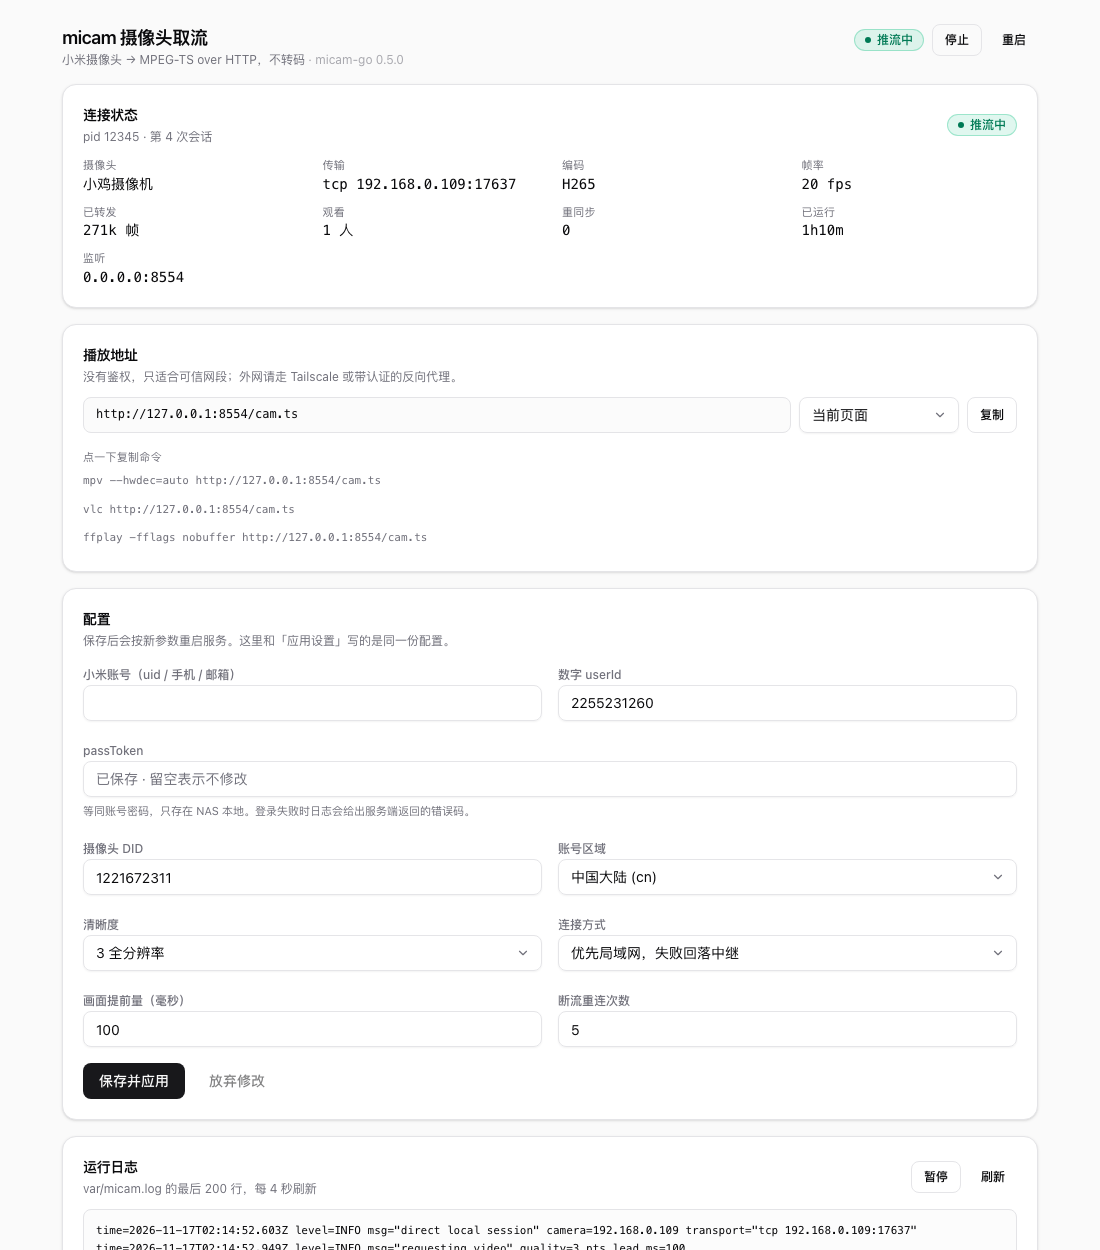
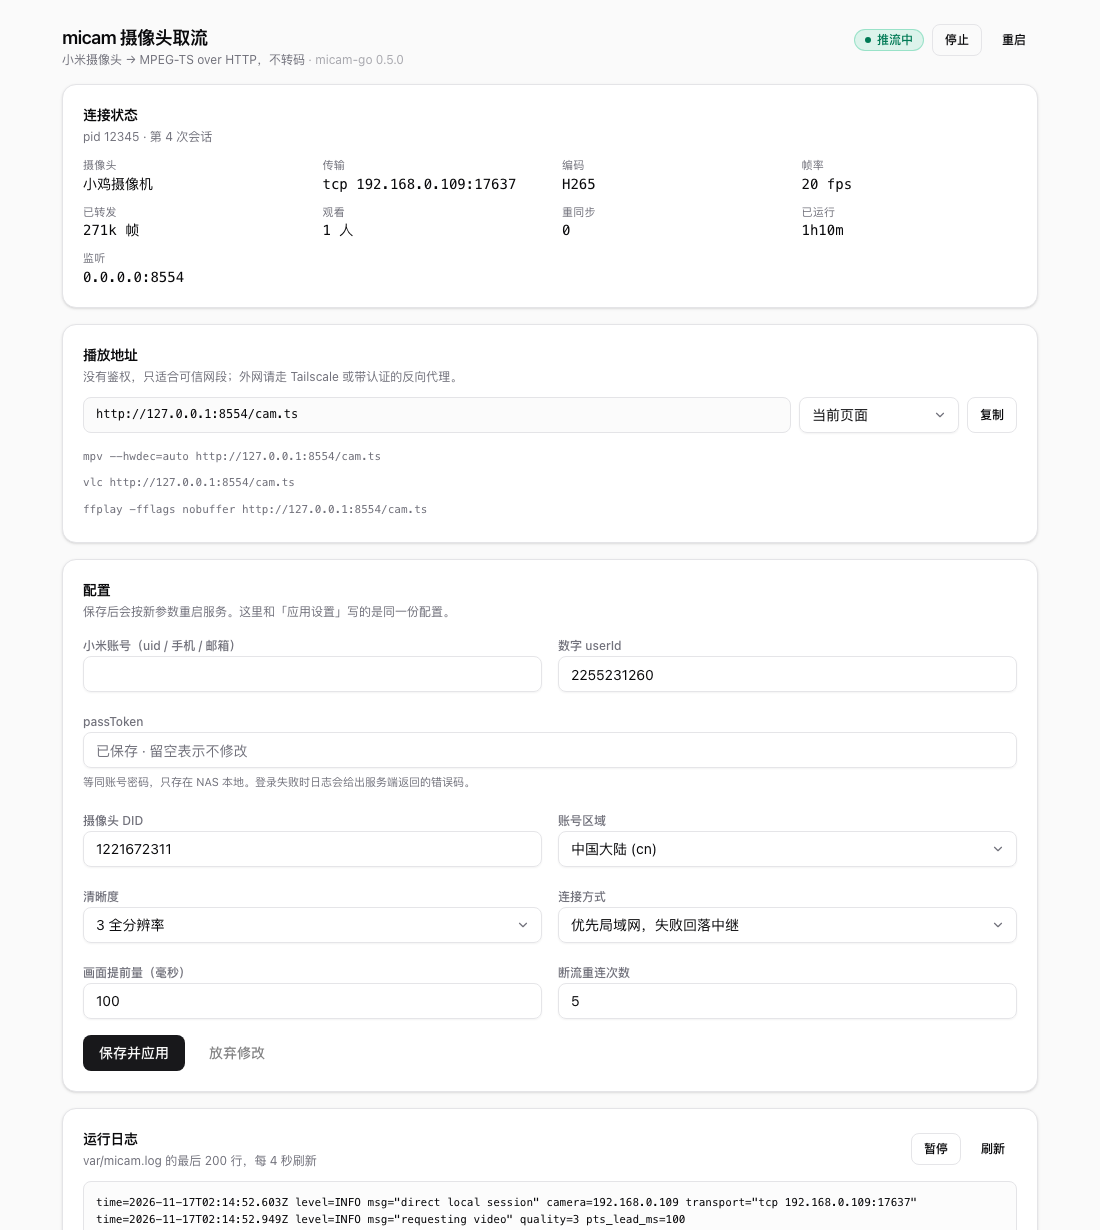
feat: say what "connecting" is doing, and stop it hanging silently
A session that had been connecting for minutes looked exactly like one that had
just started: the state was set once, and neither the card nor the badge said
anything else. It also had a hole. The media watchdog only arms after the first
frame, precisely so the silent authentication phase is not killed - but that
exemption never expired, so a camera that accepted "start video" and then sent
nothing left the session waiting forever: no failure, no retry, "connecting"
until the heat death of the NAS.

The connecting state now carries a stage - provisioning, dialing, authenticating,
starting-video - and the attempt's start time, so the card reads
"连接摄像头 · 15s" and turns amber past twenty seconds with a hint about the camera
being offline. The watchdog is armed explicitly once video is requested, which
turns that silent camera into an ordinary failed attempt.

Also drops the duplicate state badge (the header keeps it; the card now explains
the state instead of repeating it) and the "点一下复制命令" hint above the player
commands.

diff --git a/web/src/lib/components/status-card.svelte b/web/src/lib/components/status-card.svelte
@@ -1,16 +1,40 @@
 <script lang="ts">
   import type { AppStatus } from "$lib/api";
-  import { formatCount, formatDuration, formatFPS, stateLabel, stateTone } from "$lib/format";
-  import { Badge, Card, CardContent, CardHeader, CardTitle } from "./ui";
+  import { formatCount, formatDuration, formatFPS } from "$lib/format";
+  import { Card, CardContent, CardHeader, CardTitle } from "./ui";
 
   let { app }: { app: AppStatus } = $props();
 
-  // A one-second tick keeps the uptime moving without re-fetching anything.
+  // A one-second tick keeps the elapsed time moving without re-fetching anything.
   let now = $state(Date.now());
   $effect(() => {
     const timer = setInterval(() => (now = Date.now()), 1000);
     return () => clearInterval(timer);
   });
+
+  let since = $derived(app.since ? new Date(app.since).getTime() : 0);
+  let elapsed = $derived(since ? Math.max(0, (now - since) / 1000) : 0);
+
+  // "连接中" covers five different waits; say which one and for how long, otherwise
+  // a wedged session looks exactly like a fast one.
+  const stageLabel: Record<string, string> = {
+    provisioning: "向米家云申请参数",
+    dialing: "连接摄像头",
+    authenticating: "认证",
+    "starting-video": "请求视频",
+  };
+
+  let detail = $derived.by(() => {
+    if (!app.running) return "";
+    if (app.state === "connecting") {
+      const stage = app.stage ? (stageLabel[app.stage] ?? app.stage) : "准备中";
+      return `${stage} · ${formatDuration(elapsed)}`;
+    }
+    if (app.state === "retrying") return "等待重连";
+    return "";
+  });
+
+  let slow = $derived(app.state === "connecting" && elapsed > 20);
 
   // A loopback bind looks healthy from the NAS and is unreachable from anywhere
   // else: worth saying out loud.
@@ -19,7 +43,7 @@
   );
 
   let uptime = $derived(
-    app.since ? Math.max(0, (now - new Date(app.since).getTime()) / 1000) : 0,
+    app.state === "streaming" && since ? Math.max(0, (now - since) / 1000) : 0,
   );
 
   const rows = $derived([
@@ -30,27 +54,25 @@
     { label: "已转发", value: `${formatCount(app.frames)} 帧` },
     { label: "观看", value: `${app.viewers} 人` },
     { label: "重同步", value: String(app.resyncs) },
-    { label: "已运行", value: app.state === "streaming" ? formatDuration(uptime) : "—" },
+    { label: "已运行", value: uptime > 0 ? formatDuration(uptime) : "—" },
     { label: "监听", value: app.bind || "—" },
   ]);
 </script>
 
 <Card>
-  <CardHeader class="flex-row items-center justify-between gap-3">
-    <div class="flex flex-col gap-1">
-      <CardTitle>连接状态</CardTitle>
-      <p class="text-xs text-muted-foreground">
-        {#if app.running}
-          pid {app.pid} · 第 {app.session || 1} 次会话
-        {:else}
-          服务未运行
+  <CardHeader>
+    <CardTitle>连接状态</CardTitle>
+    <p class="text-xs text-muted-foreground">
+      {#if app.running}
+        pid {app.pid} · 第 {app.session || 1} 次会话
+        {#if detail}
+          ·
+          <span class={slow ? "text-amber-600 dark:text-amber-400" : ""}>{detail}</span>
         {/if}
-      </p>
-    </div>
-    <Badge tone={stateTone[app.state]}>
-      <span class="size-1.5 rounded-full bg-current"></span>
-      {stateLabel[app.state]}
-    </Badge>
+      {:else}
+        服务未运行
+      {/if}
+    </p>
   </CardHeader>
 
   <CardContent class="space-y-3">
@@ -65,6 +87,15 @@
       {/each}
     </dl>
 
+    {#if slow}
+      <p
+        class="rounded-md border border-amber-500/30 bg-amber-500/8 px-3 py-2 text-xs text-amber-800 dark:text-amber-200"
+      >
+        连接已经花了 {formatDuration(elapsed)}。超过 15 秒还没出画面，多半是摄像头不在线
+        （或不在同一网段），看下面的日志确认卡在哪一步。
+      </p>
+    {/if}
+
     {#if loopback}
       <p
         class="rounded-md border border-amber-500/30 bg-amber-500/8 px-3 py-2 text-xs text-amber-800 dark:text-amber-200"
@@ -77,7 +108,9 @@
     {/if}
 
     {#if app.error}
-      <p class="rounded-md border border-destructive/30 bg-destructive/8 px-3 py-2 font-mono text-xs break-words text-destructive">
+      <p
+        class="rounded-md border border-destructive/30 bg-destructive/8 px-3 py-2 font-mono text-xs break-words text-destructive"
+      >
         {app.error}
       </p>
     {/if}

diff --git a/web/src/lib/components/player-card.svelte b/web/src/lib/components/player-card.svelte
@@ -108,8 +108,7 @@
       </Button>
     </div>
 
-    <div class="space-y-1">
-      <p class="text-[11px] tracking-wide text-muted-foreground uppercase">点一下复制命令</p>
+    <div class="-mt-1 space-y-0.5">
       {#each commands as command (command.id)}
         <button
           type="button"

diff --git a/web/src/lib/api.ts b/web/src/lib/api.ts
@@ -21,6 +21,8 @@ export interface AppStatus {
   running: boolean;
   pid: number;
   state: StreamState;
+  /** stage refines "connecting": provisioning, dialing, authenticating, starting-video. */
+  stage?: string;
   session: number;
   camera?: string;
   transport?: string;

diff --git a/internal/status/status.go b/internal/status/status.go
@@ -38,9 +38,23 @@ type StreamURL struct {
 	Iface string `json:"iface,omitempty"`
 }
 
+// Stage says what "connecting" is actually doing. The state alone covers five
+// different waits of very different lengths, so "连接中" could mean anything from
+// "asking the cloud" to "waiting for a frame that never comes".
+type Stage string
+
+const (
+	StageProvisioning   Stage = "provisioning"
+	StageDialing        Stage = "dialing"
+	StageAuthenticating Stage = "authenticating"
+	StageStartingVideo  Stage = "starting-video"
+)
+
 // Snapshot is the JSON document written to the status file.
 type Snapshot struct {
 	State State `json:"state"`
+	// Stage refines State while it is "connecting".
+	Stage Stage `json:"stage,omitempty"`
 	// Session counts attempts within this process, so a restarting stream is
 	// visible even when the state is briefly "connecting" again.
 	Session   int    `json:"session"`
@@ -207,7 +221,10 @@ func (r *Reporter) BeginSession(n int) {
 	r.snap.FPS = 0
 	r.snap.Viewers = 0
 	r.snap.Resyncs = 0
-	r.snap.Since = time.Time{}
+	// Since marks the start of the attempt, so the UI can show how long a stuck
+	// "connecting" has been going on.
+	r.snap.Since = r.now()
+	r.snap.Stage = ""
 	r.snap.Bind = ""
 	r.snap.URLs = nil
 	r.frames = 0
@@ -226,6 +243,16 @@ func (r *Reporter) Bind(addr string, urls []StreamURL) {
 	r.snap.URLs = urls
 }
 
+// Stage records what the current attempt is doing.
+func (r *Reporter) Stage(stage Stage) {
+	if r == nil {
+		return
+	}
+	r.mu.Lock()
+	defer r.mu.Unlock()
+	r.snap.Stage = stage
+}
+
 // Connected records how the camera was reached, and when the session started.
 func (r *Reporter) Connected(camera, transport string) {
 	if r == nil {
@@ -236,6 +263,7 @@ func (r *Reporter) Connected(camera, transport string) {
 	r.snap.Camera = camera
 	r.snap.Transport = transport
 	r.snap.Since = r.now()
+	r.snap.Stage = ""
 }
 
 // Frame counts one relayed video frame.

diff --git a/cmd/micam/session.go b/cmd/micam/session.go
@@ -169,6 +169,7 @@ func streamSession(ctx context.Context, opts *cli.Options, client *cloud.Client,
 
 	rep.BeginSession(session)
 	rep.SetState(status.StateConnecting, nil)
+	rep.Stage(status.StageProvisioning)
 
 	keys, err := miss.GenerateKeys()
 	if err != nil {
@@ -195,6 +196,7 @@ func streamSession(ctx context.Context, opts *cli.Options, client *cloud.Client,
 		return outcome{code: exitSession}
 	}
 
+	rep.Stage(status.StageDialing)
 	link, local, err := dialCamera(ctx, opts, target, uid, prov, log)
 	if err != nil {
 		log.Error("cannot reach the camera", "err", err)
@@ -207,6 +209,7 @@ func streamSession(ctx context.Context, opts *cli.Options, client *cloud.Client,
 	conn.Start()
 	defer conn.Close()
 
+	rep.Stage(status.StageAuthenticating)
 	media := miss.NewClient(conn)
 	if _, err := media.Authenticate(ctx, keys.PublicHex(), prov.Sign, 15*time.Second); err != nil {
 		log.Error("MISS authentication failed", "err", err)
@@ -220,12 +223,17 @@ func streamSession(ctx context.Context, opts *cli.Options, client *cloud.Client,
 	}
 	media.UseSessionKey(key)
 
+	rep.Stage(status.StageStartingVideo)
 	log.Info("requesting video", "quality", opts.Quality, "pts_lead_ms", opts.PTSLeadMS)
 	if err := media.StartVideo(opts.Quality, false); err != nil {
 		log.Error("cannot start the video stream", "err", err)
 		return outcome{code: exitSession, retryable: true, err: err}
 	}
 	defer func() { _ = media.StopVideo() }()
+
+	// From here the camera is supposed to be sending. If it never does, the
+	// watchdog must not sit on its "no frames yet" exemption forever.
+	conn.ArmIdle()
 
 	// From here on the camera considers the session live, so this is where the
 	// health clock starts.

diff --git a/internal/pppp/conn_test.go b/internal/pppp/conn_test.go
@@ -176,3 +176,46 @@ func TestConnErrIsNilAfterALocalClose(t *testing.T) {
 		t.Fatalf("Err() = %v, want nil after a local close", err)
 	}
 }
+
+// A camera that accepts "start video" and then sends nothing is as dead as one
+// that disconnected: without arming the clock the watchdog would wait for a first
+// frame that never comes, and the session would hang in "connecting" forever.
+func TestConnWatchdogFiresWhenVideoNeverStarts(t *testing.T) {
+	oldIdle, oldInterval := mediaIdleTimeout, watchdogInterval
+	mediaIdleTimeout, watchdogInterval = 50*time.Millisecond, 10*time.Millisecond
+	t.Cleanup(func() { mediaIdleTimeout, watchdogInterval = oldIdle, oldInterval })
+
+	listener, err := net.Listen("tcp", "127.0.0.1:0")
+	if err != nil {
+		t.Fatalf("listen: %v", err)
+	}
+	defer listener.Close()
+
+	link, err := DialTCP(listener.Addr().String(), 2*time.Second)
+	if err != nil {
+		t.Fatalf("DialTCP: %v", err)
+	}
+
+	conn := NewConn(link, Addr{}, discardLogger())
+	conn.Start()
+	defer conn.Close()
+
+	camera, err := listener.Accept()
+	if err != nil {
+		t.Fatalf("accept: %v", err)
+	}
+	defer camera.Close()
+
+	// What streamSession does right after asking for video: no media has arrived.
+	conn.ArmIdle()
+
+	ctx, cancel := context.WithTimeout(context.Background(), 5*time.Second)
+	defer cancel()
+
+	if _, ok := conn.NextMedia(ctx); ok {
+		t.Fatal("no media should have been delivered")
+	}
+	if !errors.Is(conn.Err(), ErrMediaIdle) {
+		t.Fatalf("Err() = %v, want ErrMediaIdle", conn.Err())
+	}
+}

diff --git a/internal/ctl/ctl.go b/internal/ctl/ctl.go
@@ -27,6 +27,8 @@ type AppStatus struct {
 	Running bool         `json:"running"`
 	PID     int          `json:"pid"`
 	State   status.State `json:"state"`
+	// Stage refines a "connecting" state.
+	Stage status.Stage `json:"stage,omitempty"`
 
 	Session   int    `json:"session"`
 	Camera    string `json:"camera,omitempty"`
@@ -215,6 +217,7 @@ func (s *Server) snapshot(actionErr error) StatusResponse {
 	snap, readErr := status.Read(s.Paths.StatusFile())
 	if readErr == nil {
 		app.State = snap.State
+		app.Stage = snap.Stage
 		app.Session = snap.Session
 		app.Camera = snap.Camera
 		app.Transport = snap.Transport

diff --git a/internal/pppp/conn.go b/internal/pppp/conn.go
@@ -152,6 +152,16 @@ func (c *Conn) watchdog() {
 	}
 }
 
+// ArmIdle starts the media clock without waiting for a frame.
+//
+// The watchdog stays quiet until media arrives, because the authentication
+// handshake is legitimately silent. Once video is requested that exemption runs
+// out: a camera that accepts the request and then sends nothing is exactly as dead
+// as one that vanished, and without this the session would wait forever.
+func (c *Conn) ArmIdle() {
+	c.lastMedia.Store(time.Now().UnixNano())
+}
+
 // Done is closed when the session ends.
 func (c *Conn) Done() <-chan struct{} { return c.closed }
 
